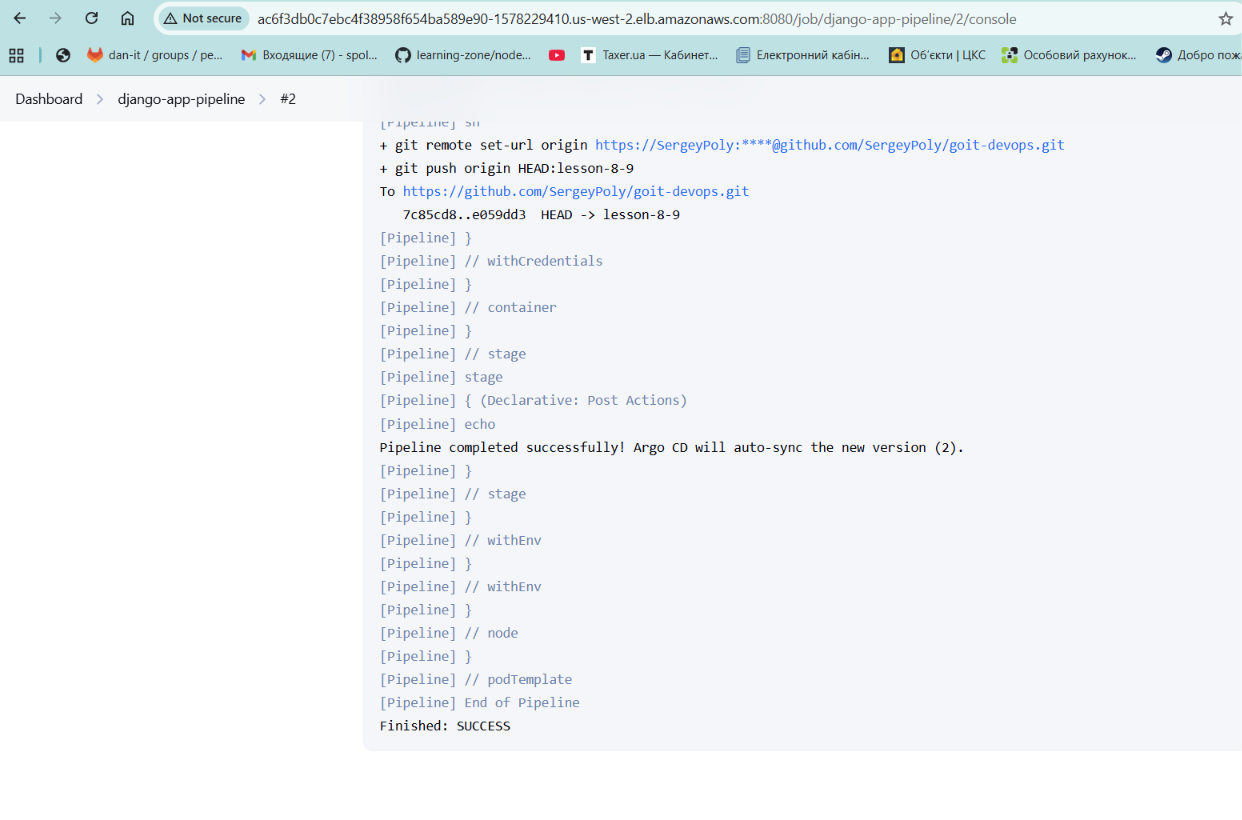
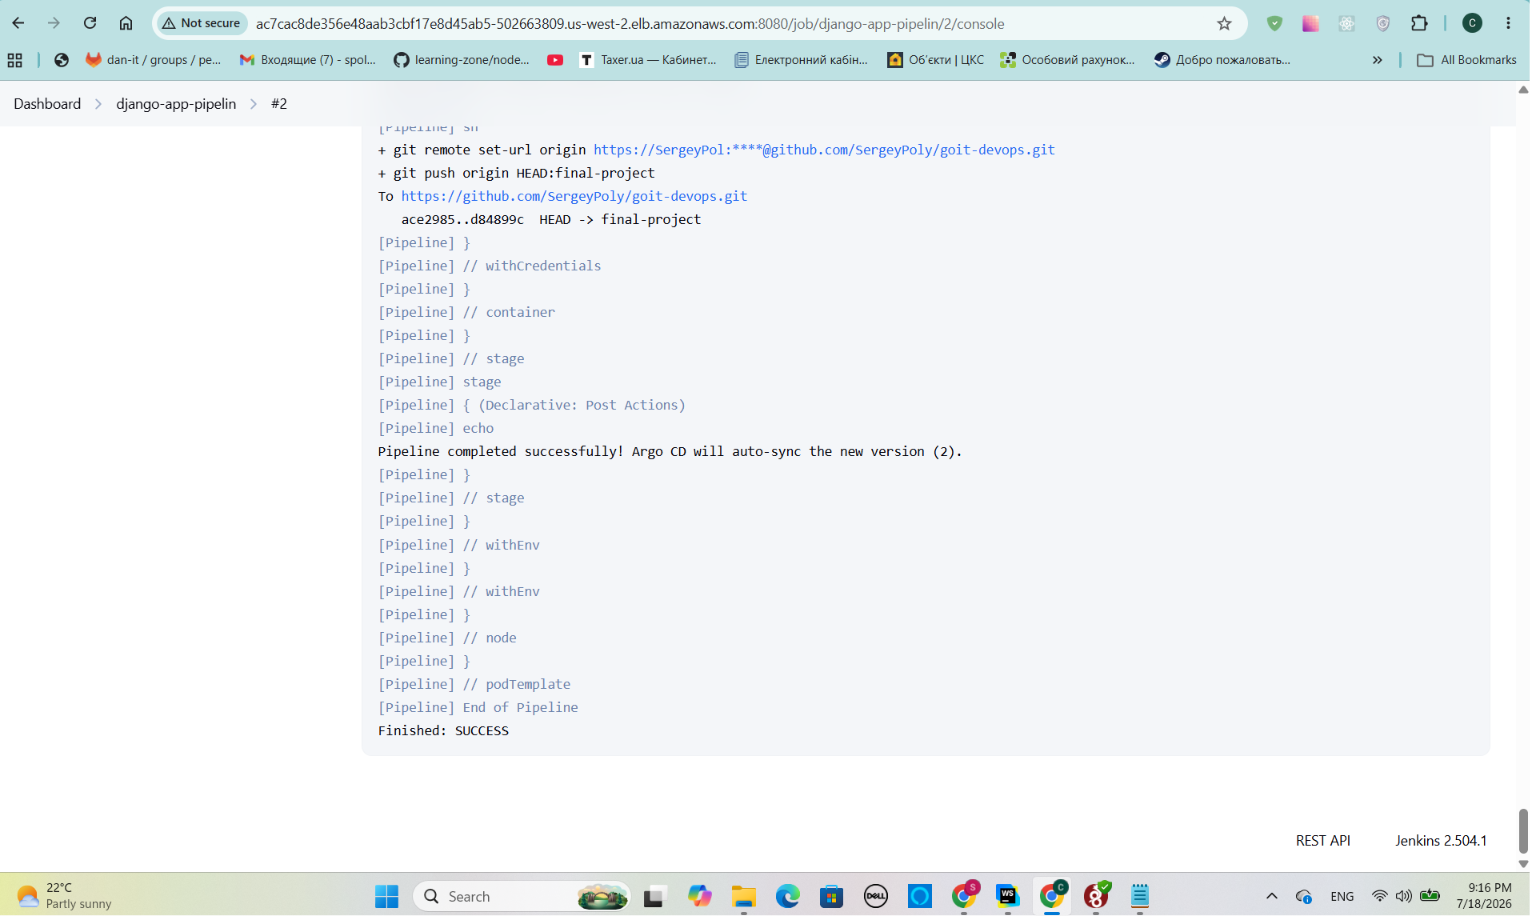
Fix deployment blockers found during the real final-project apply and add verification screenshots
- kubernetes/helm providers: switch back from data.aws_eks_cluster(_auth)
  to module.eks outputs + exec-based auth. The data-source token expired
  mid-apply (~15 min TTL vs a much longer EKS+RDS+Helm apply), and the
  data source itself intermittently failed to resolve before provider
  configuration, causing a "localhost" connection error at plan time.
- EKS node instance type: m7i-flex.large instead of t3.small/t3.medium.
  t3.medium is rejected outright by this account's Free Tier guardrail;
  t3.small is accepted but hits the per-node max-pods (ENI/IP) ceiling
  once Jenkins + Argo CD + monitoring are all scheduled, well before any
  CPU/memory limit.
- rds module: default engine_version/engine_version_cluster bumped to
  versions actually available in this account/region (16.4 no longer
  exists); backup_retention_period lowered to 1 day to satisfy this
  account's Free Tier restriction on CreateDBInstance.

diff --git a/modules/rds/README.md b/modules/rds/README.md
@@ -64,7 +64,7 @@ module "rds" {
 
   use_aurora           = true
   engine_cluster       = "aurora-postgresql"
-  engine_version_cluster = "16.4"
+  engine_version_cluster = "16.14"
   aurora_replica_count = 2
   instance_class       = "db.r6g.large"
 
@@ -86,8 +86,8 @@ module "rds" {
 | Що змінити | Яка змінна |
 |---|---|
 | Aurora-кластер замість звичайної БД | `use_aurora = true` |
-| Engine звичайного RDS (postgres/mysql/mariadb) | `engine` + `engine_version` + `parameter_group_family_rds` (мають бути узгоджені, наприклад `postgres` / `16.4` / `postgres16`) |
-| Engine Aurora-кластера | `engine_cluster` + `engine_version_cluster` + `parameter_group_family_aurora` (наприклад `aurora-postgresql` / `16.4` / `aurora-postgresql16`) |
+| Engine звичайного RDS (postgres/mysql/mariadb) | `engine` + `engine_version` + `parameter_group_family_rds` (мають бути узгоджені, наприклад `postgres` / `16.14` / `postgres16`) |
+| Engine Aurora-кластера | `engine_cluster` + `engine_version_cluster` + `parameter_group_family_aurora` (наприклад `aurora-postgresql` / `16.14` / `aurora-postgresql16`) |
 | Розмір інстансу | `instance_class` (напр. `db.t3.micro` для Free Tier, `db.r6g.large` для продакшн-Aurora) |
 | Кількість Aurora reader-реплік | `aurora_replica_count` (writer створюється завжди додатково, незалежно від цього числа) |
 | Multi-AZ (лише звичайний RDS) | `multi_az = true` |
@@ -108,10 +108,10 @@ aws rds describe-db-engine-versions --engine aurora-postgresql --query 'DBEngine
 | `name` | `string` | — (обов'язкова) | Базове ім'я для інстансу/кластера та всіх супутніх ресурсів |
 | `use_aurora` | `bool` | `false` | `true` → Aurora Cluster, `false` → звичайна `aws_db_instance` |
 | `engine` | `string` | `"postgres"` | Engine звичайного RDS |
-| `engine_version` | `string` | `"16.4"` | Версія engine звичайного RDS |
+| `engine_version` | `string` | `"16.14"` | Версія engine звичайного RDS |
 | `parameter_group_family_rds` | `string` | `"postgres16"` | Family parameter group звичайного RDS |
 | `engine_cluster` | `string` | `"aurora-postgresql"` | Engine Aurora-кластера |
-| `engine_version_cluster` | `string` | `"16.4"` | Версія engine Aurora-кластера |
+| `engine_version_cluster` | `string` | `"16.14"` | Версія engine Aurora-кластера |
 | `parameter_group_family_aurora` | `string` | `"aurora-postgresql16"` | Family cluster parameter group Aurora |
 | `aurora_replica_count` | `number` | `0` | Кількість Aurora reader-реплік (writer — завжди +1 до цього числа) |
 | `instance_class` | `string` | `"db.t3.micro"` | Клас інстансу БД |